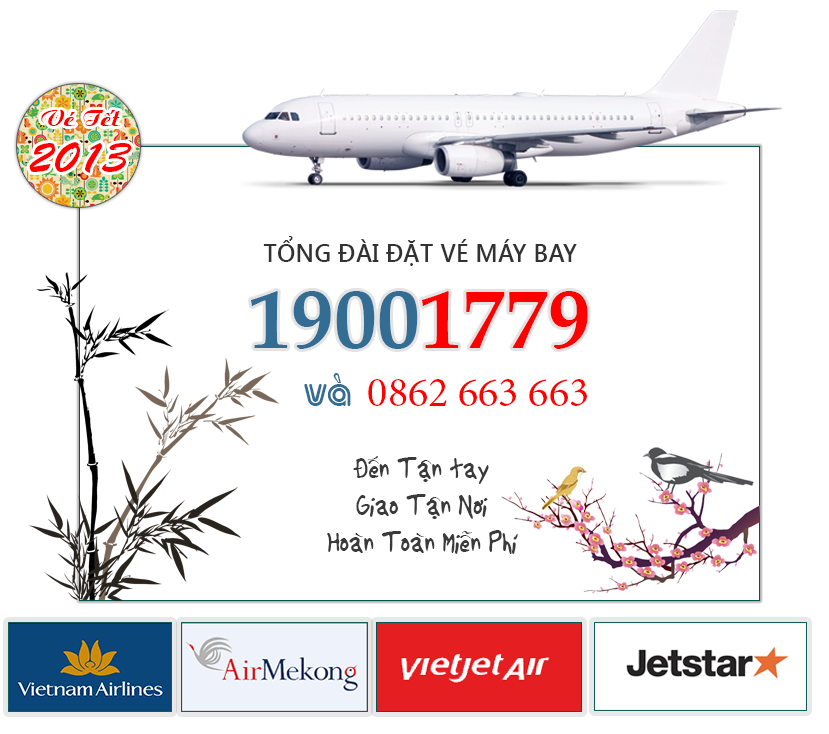
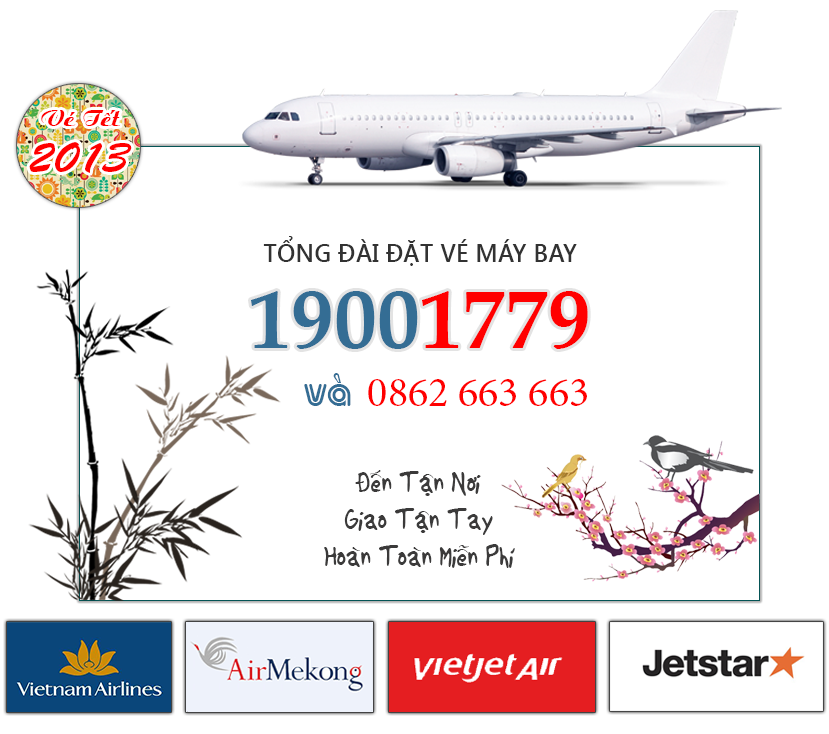
fixed giao tan tay den tan noi

diff --git a/db/seeds.rb b/db/seeds.rb
@@ -5,3 +5,5 @@
 #
 #   cities = City.create([{ name: 'Chicago' }, { name: 'Copenhagen' }])
 #   Mayor.create(name: 'Emanuel', city: cities.first)
+
+VskyDiemdi

diff --git a/app/models/vsky_diemdi.rb b/app/models/vsky_diemdi.rb
@@ -1,3 +1,4 @@
 class VskyDiemdi < ActiveRecord::Base
   attr_accessible :name
+  has_many :diemdis
 end
